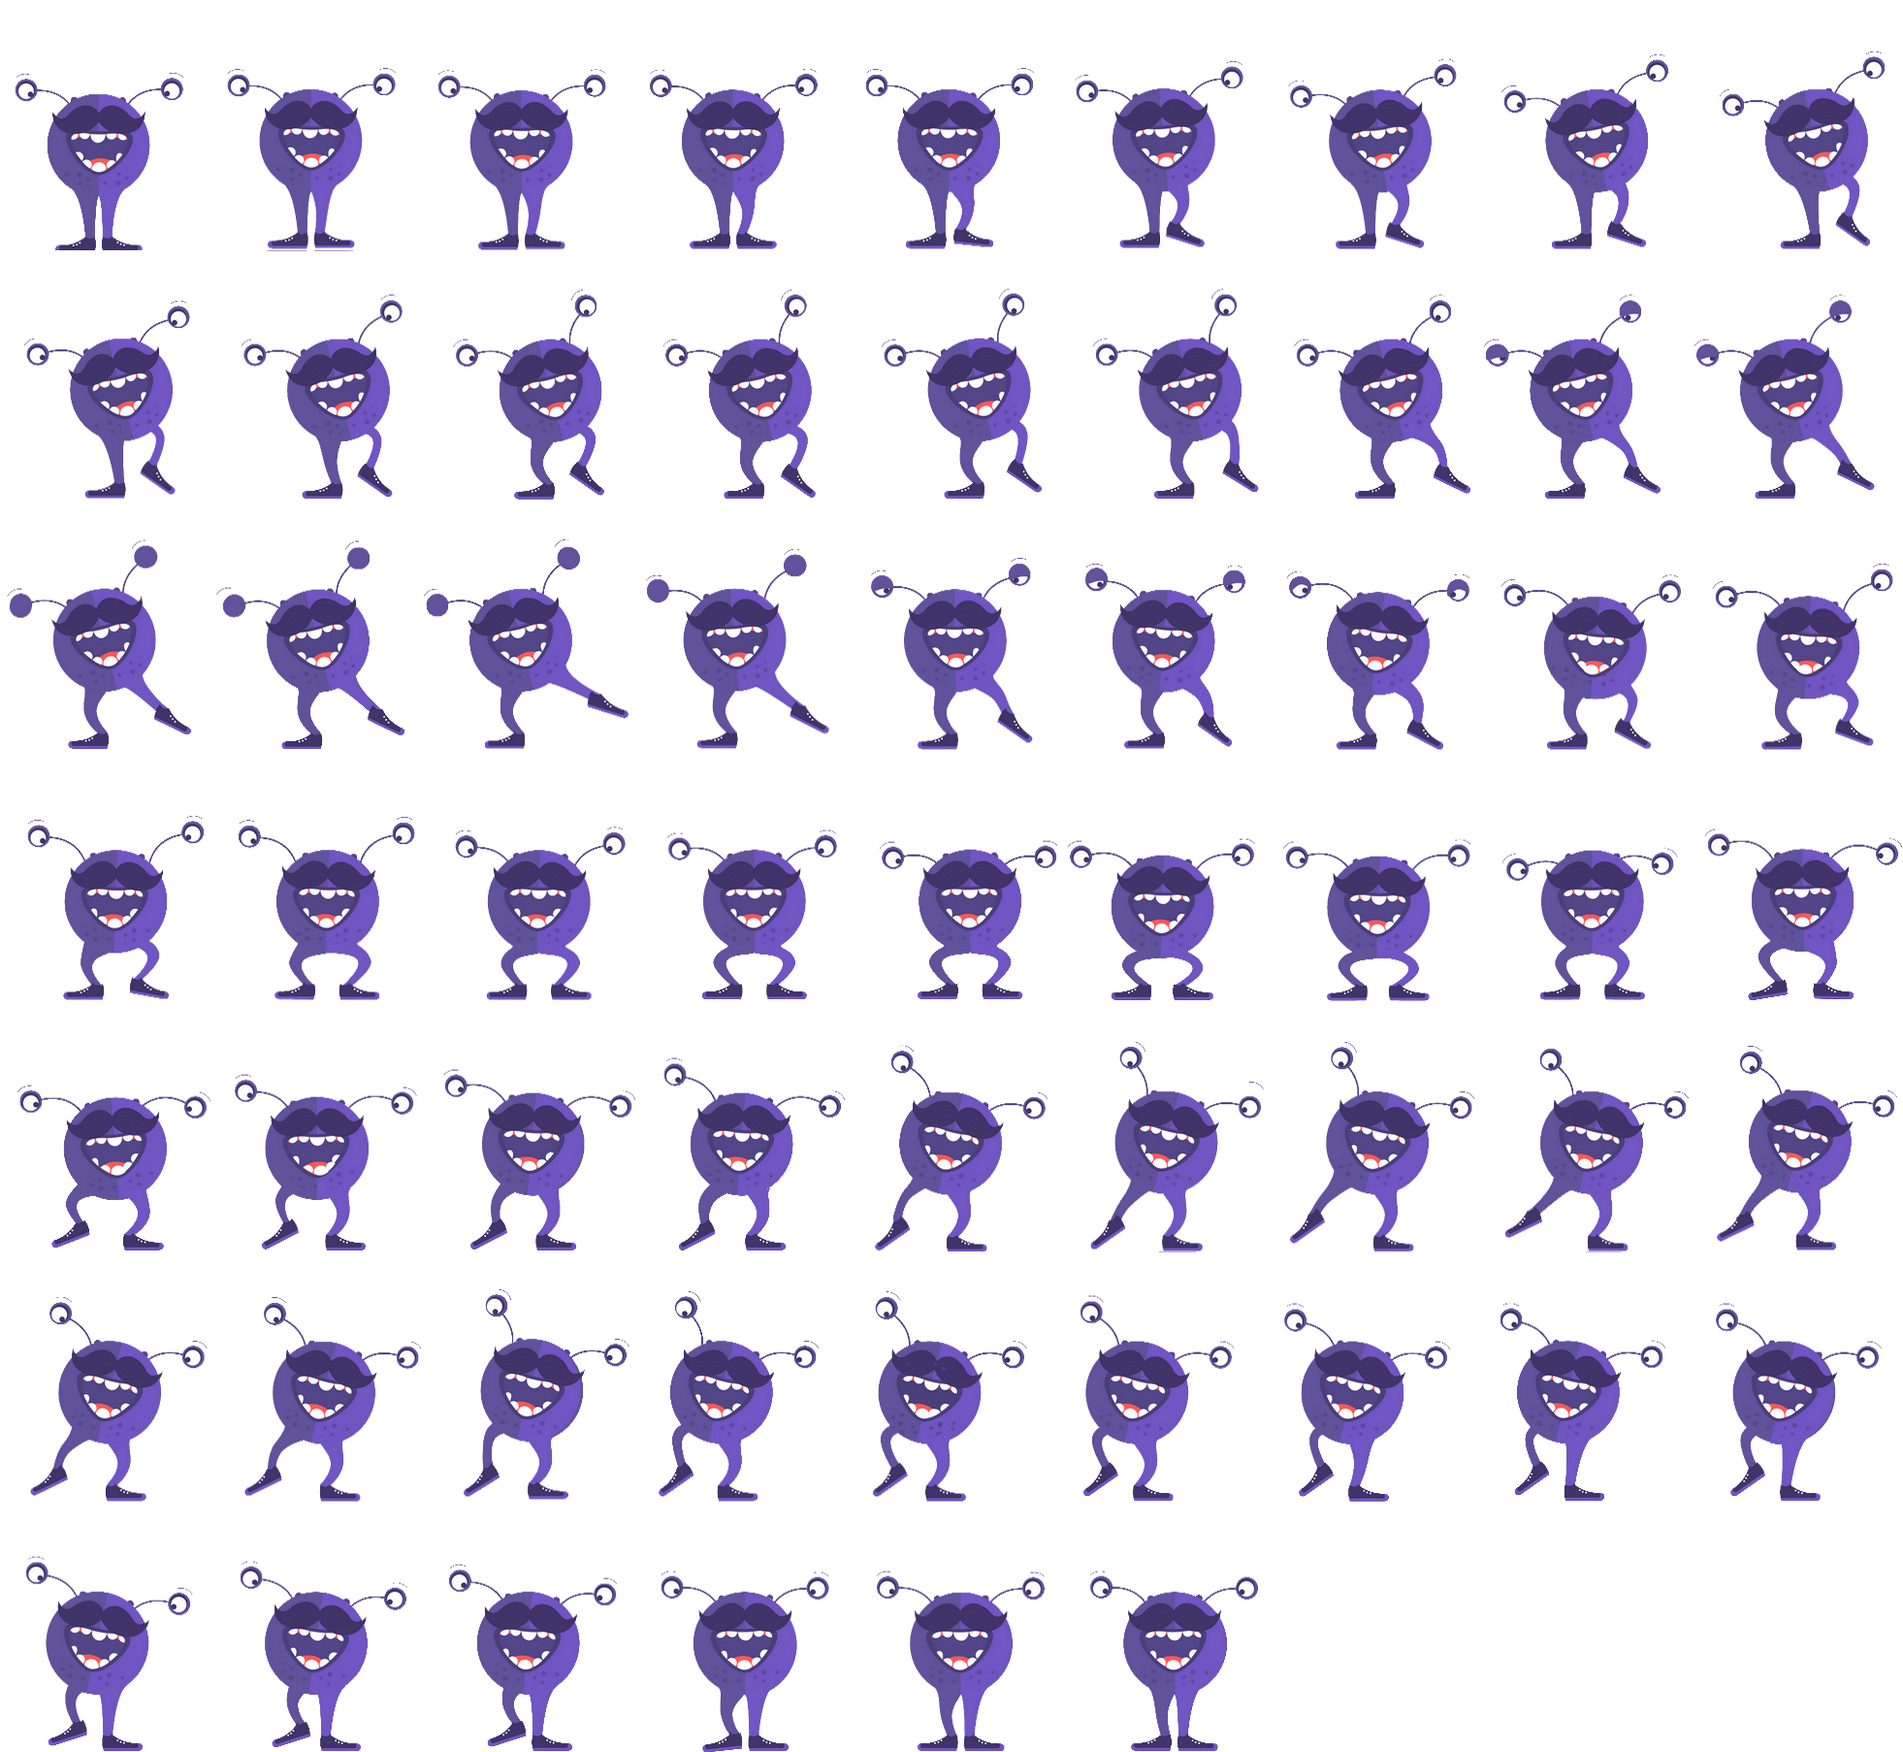
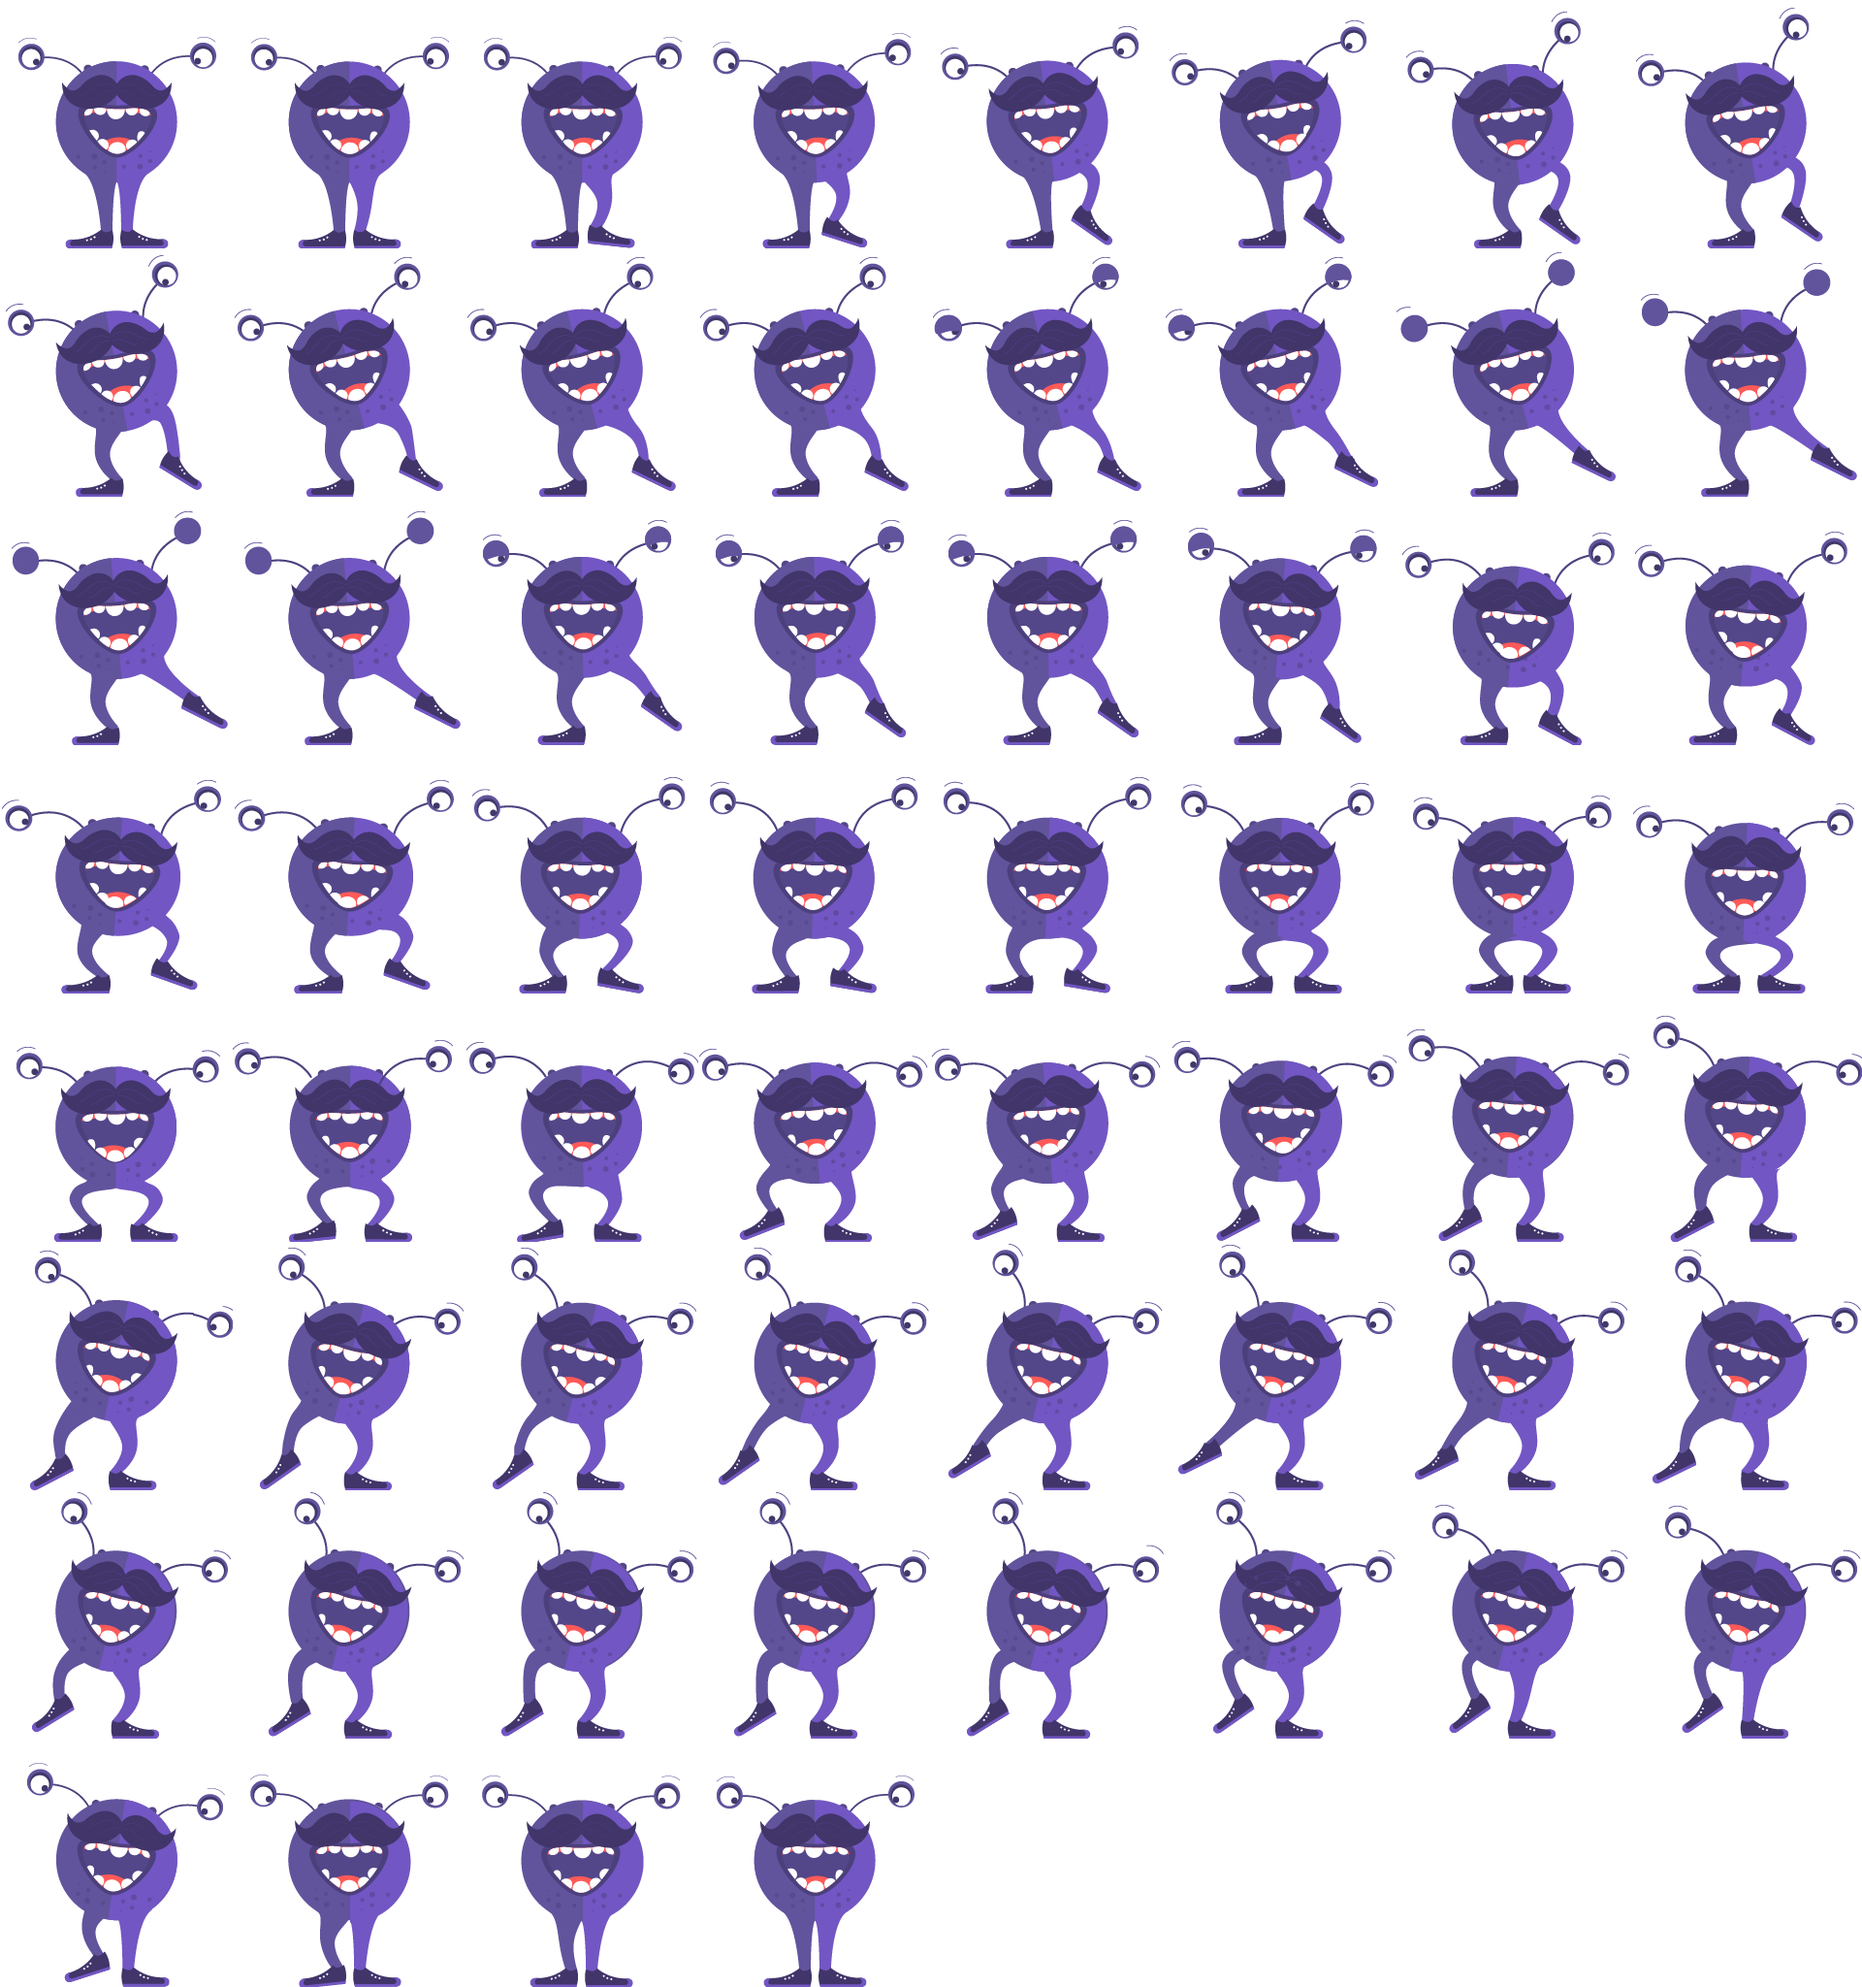
Add: spritesheets done

diff --git a/src/screens/GameScreen.tsx b/src/screens/GameScreen.tsx
@@ -14,10 +14,8 @@ import Cells from '../constants/Cells';
 import { isItem, ItemImages } from '../constants/ItemImages';
 import { getIsDoneList, storeIsDoneList } from '../scripts/storage/DiscoverLevels';
 import { getCharacterImages } from '../constants/CharacterImages';
-import LottieView from 'lottie-react-native';
 import MyColors from '../constants/Colors';
 import {loadSound} from '../scripts/sound/sound'
-import SpriteSheet from 'rn-sprite-sheet';
 import BlockSchema from '../components/BlockSchema';
 import BlockSchemaItem from '../components/BlockSchemaItem';
 import BlockSchemaRow from '../components/BlockSchemaRow';
@@ -27,6 +25,7 @@ import { sleep } from '../scripts/utils';
 import * as Progress from 'react-native-progress';
 import Translation from '../datas/translation.json';
 import LanguageContext from '../context/LanguageContext';
+import { ItemBlock } from "../scripts/blocks/DataBlock";
 
 interface IProps {
     navigation: any,
@@ -50,7 +49,9 @@ interface IState {
     blockSchemaStatus: boolean[],
     percentLoading: number,
     animUUID: any,
-    languageObj: Object
+    languageObj: Object,
+    spriteWidth: number,
+    spriteHeight: number,
 }
 
 class Game extends Component<IProps, IState> {
@@ -104,12 +105,14 @@ class Game extends Component<IProps, IState> {
             percentLoading: 0,
             animUUID: uuid.v4(),
             languageObj: Translation["en"].gameScreen,
+            spriteWidth: 240,
+            spriteHeight: 256
         };
 
         this.winCondition = props.route.params.mapInfo.winCondition;
 
         if (props.route.params.cameraMode == CameraMode.TEST) {
-            this.actions = new CharacterBlock(Characters.MrMustache, new MoveBlock(new GrabBlock(new MoveBlock(new JumpBlock(new MoveBlock(new MoveBlock(new MoveBlock(null))))))));
+            this.actions = new CharacterBlock(Characters.MrMustache, new MoveBlock(new GrabBlock(new MoveBlock(new UseBlock(new ItemBlock(Items.Machete), new MoveBlock(new MoveBlock(new MoveBlock(null))))))));
         } else {
             this.actions = props.route.params.actions;
         }
@@ -323,7 +326,7 @@ class Game extends Component<IProps, IState> {
     async move() {
         this.lastTicks = Date.now();
         this.moveDistance = 0
-        
+
         var self = this;
 
         return await new Promise<void>(resolve => {
@@ -369,10 +372,11 @@ class Game extends Component<IProps, IState> {
                     bg1Pos: newBgPos[1],
                     itemsPos: newItemPos,
                     image: self.images.move[0],
-                    columns: 9,
-                    rows: 7,
+                    columns: 8,
+                    rows: 8,
                     numSpritesInSpriteSheet: 60,
                     animUUID: imageUUID,
+                    spriteWidth: 256,
                 })
 
                 if (self.moveDistance >= EngineConstants.CELL_SIZE) {
@@ -447,6 +451,7 @@ class Game extends Component<IProps, IState> {
                     rows: 9,
                     numSpritesInSpriteSheet: 60,
                     animUUID: imageUUID,
+                    spriteWidth: 256,
                 })
 
                 if (self.moveDistance >= EngineConstants.CELL_SIZE * numCells) {
@@ -460,7 +465,7 @@ class Game extends Component<IProps, IState> {
         });
     }
 
-    grab() {
+    async grab() {
         var currCell = this.state.map[this.characterPos];
 
         if (currCell == Cells.Empty || !isItem(currCell.content.imageName)) {
@@ -473,14 +478,51 @@ class Game extends Component<IProps, IState> {
         if (!this.mounted)
             return false;
 
-        loadSound("grab.mp3", false, 1);
 
-        this.setState((prevState) => {
-            let inventory = prevState.inventory;  
-            inventory[currCell.content.imageName] = inventory[currCell.content.imageName] ? inventory[currCell.content.imageName] + 1 : 1;                                  
-            let map = prevState.map;
-            map[this.characterPos] = Cells.Empty
-            return {inventory, map};                                 
+        var self = this;
+
+        await new Promise<void>(resolve => {
+            // Fix memory leak when quitting
+            if (!self.mounted)
+                resolve();
+
+            var imageNum = 0;
+
+            doGrab();
+
+            function doGrab() {
+                if (imageNum == 1) {
+                    loadSound("grab.mp3", false, 1);
+
+                    self.setState((prevState) => {
+                        let inventory = prevState.inventory;  
+                        inventory[currCell.content.imageName] = inventory[currCell.content.imageName] ? inventory[currCell.content.imageName] + 1 : 1;                                  
+                        let map = prevState.map;
+                        map[self.characterPos] = Cells.Empty
+                        return {inventory, map};                                 
+                    });
+                }
+
+                self.setState({
+                    image: self.images.crouch[imageNum],
+                    columns: 8,
+                    rows: 8,
+                    numSpritesInSpriteSheet: 60,
+                    animUUID: uuid.v4(),
+                    spriteWidth: 240,
+                })
+
+                // Fix memory leak when quitting
+                if (!self.mounted)
+                    resolve();
+
+                imageNum++;
+
+                if (imageNum < 2)
+                    setTimeout(doGrab, 16.667 * 60);
+                else
+                    setTimeout(resolve, 16.667 * 60);    
+            }
         });
 
         return true;
@@ -499,6 +541,7 @@ class Game extends Component<IProps, IState> {
         };
 
         if (Object.keys(usables).filter(usableItem => usableItem === item).length === 0) {
+            console.log(item);
             this.fireEndScreen("loose", "Tu ne peux pas utiliser une " + item);
             return false;
         }
@@ -512,14 +555,56 @@ class Game extends Component<IProps, IState> {
         else if(!this.isInFront(usables[item]))
             this.fireEndScreen("loose", "Tu dois être en face d'un " + usables[item] + " pour pouvoir utiliser ton " + item);
         else {
-            loadSound(sounds[item], false, 1);
-            this.setState((prevState) => {
-                let inventory = prevState.inventory;
-                let map = prevState.map;
-                inventory[item] -= 1;
-                map[this.characterPos + 1] = Cells.Empty;
-                return {inventory, map}
-            })
+            if (item == Items.Machete)
+            {
+                this.lastTicks = Date.now();
+
+                var self = this;
+
+                await new Promise<void>(resolve => {
+                    // Fix memory leak when quitting
+                    if (!self.mounted)
+                        resolve();
+        
+                    var imageNum = 0;
+        
+                    useMachete();
+        
+                    function useMachete() {
+                        if (imageNum == 1) {
+                            loadSound(sounds[item], false, 1);
+                            self.setState((prevState) => {
+                                let inventory = prevState.inventory;
+                                let map = prevState.map;
+                                inventory[item] -= 1;
+                                map[self.characterPos + 1] = Cells.Empty;
+                                return {inventory, map}
+                            })
+                        }
+
+                        self.setState({
+                            image: self.images.cut[imageNum],
+                            columns: 5,
+                            rows: 6,
+                            numSpritesInSpriteSheet: 30,
+                            animUUID: uuid.v4(),
+                            spriteWidth: 400,
+                        })
+        
+                        // Fix memory leak when quitting
+                        if (!self.mounted)
+                            resolve();
+
+                        imageNum++;
+    
+                        if (imageNum < 2)
+                            setTimeout(useMachete, 16.667 * 30);
+                        else
+                            setTimeout(resolve, 16.667 * 30);    
+                    }
+                });
+            }
+
             return true;
         }
 
@@ -671,7 +756,7 @@ class Game extends Component<IProps, IState> {
                             {this.state.hasLost && <Overlay cameraMode={this.props.route.params.cameraMode} hasWon={false} text={this.endReason} color={MyColors.dark_red} backToSelectLevels={this.backToSelectLevels} backToLevelFailed={this.backToLevelFailed}/>}
                             <BackgroundGame imgBackground={this.props.route.params.mapInfo.theme.background1} position={[this.state.bg0Pos, 0]} />
                             <BackgroundGame imgBackground={this.props.route.params.mapInfo.theme.background2} position={[this.state.bg1Pos, 0]} />
-                            <Character key={this.state.animUUID} position={[0, this.state.playerPosY]} sourceImage={this.state.image} columns={this.state.columns} rows={this.state.rows} numSpritesInSpriteSheet={this.state.numSpritesInSpriteSheet}/>
+                            <Character key={this.state.animUUID} position={[0, this.state.playerPosY]} sourceImage={this.state.image} columns={this.state.columns} rows={this.state.rows} numSpritesInSpriteSheet={this.state.numSpritesInSpriteSheet} dstWidth={this.state.spriteWidth}/>
                             { arr }
                             <Inventory inventory={this.state.inventory} />
                             <BlockSchema blockList={this.blockSchemaRowList} />

diff --git a/src/components/Character.tsx b/src/components/Character.tsx
@@ -1,10 +1,6 @@
 import React, {Component} from 'react';
 import {View, Text, Image, Button, StatusBar, StyleSheet} from 'react-native';
 import EngineConstants from '../constants/EngineConstants';
-import {getCharacterImages} from "../constants/CharacterImages";
-import { Characters } from "../constants/BlockType"
-import AutoHeightImage from 'react-native-auto-height-image';
-import { baseProps } from 'react-native-gesture-handler/lib/typescript/handlers/gestureHandlers';
 import SpriteSheet from 'rn-sprite-sheet';
 
 
@@ -14,17 +10,16 @@ interface IProps {
     columns: number
     rows: number
     numSpritesInSpriteSheet: number
+    dstWidth: number,
 }
 
 export default class Character extends Component<IProps> {
 
-    private width: number;
     private spriteSheet: SpriteSheet;
     constructor(props: IProps) {
         super(props);
 
         console.log(this.props.sourceImage)
-        this.width = EngineConstants.CELL_SIZE * 2;
     }
 
     componentDidMount() {
@@ -41,7 +36,7 @@ export default class Character extends Component<IProps> {
     }
 
     render() {
-        const x = this.props.position[0] + EngineConstants.CELL_SIZE - this.width / 2;
+        const x = this.props.position[0] + EngineConstants.CELL_SIZE - this.props.dstWidth / 2;
         const y = this.props.position[1];
 
         return (
@@ -52,7 +47,7 @@ export default class Character extends Component<IProps> {
                     columns={this.props.columns}
                     rows={this.props.rows}
                     animations={{ "anim": Array.from({ length: this.props.numSpritesInSpriteSheet }, (v, i) => i)}}
-                    width={EngineConstants.CELL_SIZE * 2}/>
+                    width={this.props.dstWidth}/>
             </View>
         )
     }

diff --git a/src/scripts/blocks/ActionBlock.ts b/src/scripts/blocks/ActionBlock.ts
@@ -62,7 +62,7 @@ class GrabBlock extends StructureBlock {
         if (!engine.isMounted())
             return;
 
-        if (engine.grab() && this.nextBlock) // If grab success
+        if (await engine.grab() && this.nextBlock) // If grab success
         {
             await this.nextBlock.execute(engine);
         }
@@ -82,7 +82,7 @@ class UseBlock extends StructureBlock {
         if (!engine.isMounted())
             return;
 
-        const item = this.itemBlock.execute();
+        const item = await this.itemBlock.execute(engine);
         if (await engine.use(item)) {
             if (this.nextBlock) {
                 await this.nextBlock.execute(engine);

diff --git a/src/screens/HomeScreen.tsx b/src/screens/HomeScreen.tsx
@@ -113,7 +113,7 @@ const HomeScreen = ({ navigation }: IProps) => {
           }}/>
         </View>
         <View style={styles.button}>
-          <FlatButton text={language.test} color={Colors.pink} pressColor={Colors.dark_pink} onPress={() => navigation.navigate('Game', {cameraMode: CameraMode.TEST, mapInfo: Maps.foret2})}/>
+          <FlatButton text={language.test} color={Colors.pink} pressColor={Colors.dark_pink} onPress={() => navigation.navigate('Game', {cameraMode: CameraMode.TEST, mapInfo: Maps.foret3})}/>
         </View>
         <StatusBar backgroundColor={Colors.azure}/>
       </View>

diff --git a/src/constants/Maps.ts b/src/constants/Maps.ts
@@ -126,7 +126,11 @@ const Maps = {
     foret2: {
         theme: Themes.ForestFall,
         map: [Cells.Empty, Cells.Flower, Cells.Empty, Cells.Puddle, Cells.Empty, Cells.Win]
-    }
+    },
+    foret3: {
+        theme: Themes.ForestFall,
+        map: [Cells.Empty, Cells.Machete, Cells.Empty, Cells.Bush, Cells.Empty, Cells.Win]
+    },
 }
 
 export default Maps
